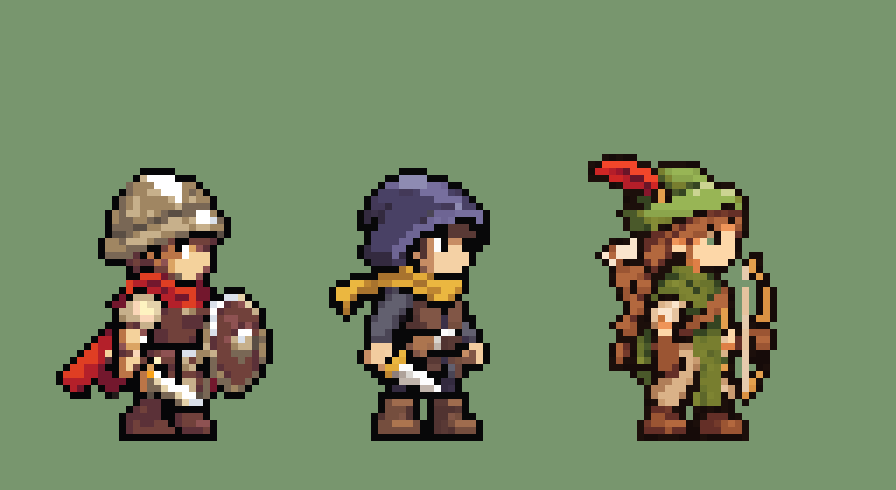
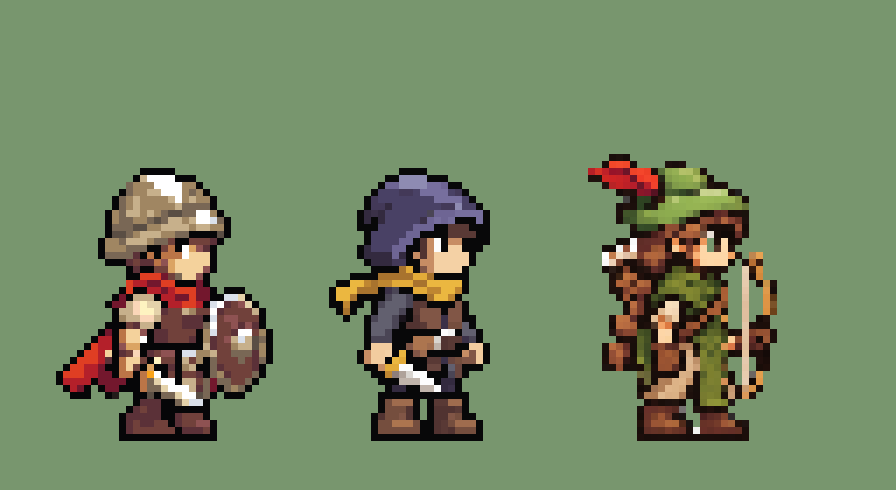
궁수 기준 그림 둘째 판(제 도트 칸대로 읽기)
Claude-Session: https://claude.ai/code/session_01WLiZx3Lii4cu91RuDKqyaT

Changed region(s): [[0.6562, 0.3061, 0.875, 0.8878]]

diff --git a/tools/saved/gpt70/pixellab72/page_archer.html b/tools/saved/gpt70/pixellab72/page_archer.html
@@ -68,10 +68,10 @@ h3 { font-size: 16px; font-weight: 600 }
     </div>
     <p class="note" id="save-hint">저장이 안 되면 그림을 길게 눌러 저장해 주세요. 둘 다 768 × 768, 흰 바탕입니다.</p>
   </section>
-  <section class="sec"><h2>픽셀랩에 넣을 궁수</h2>
[2 lines of base64/hex data omitted]
-    <p class="note">GPT 그림을 다시 찍은 것입니다(64 × 64, 투명 바탕). 몸은 전사와 같은 키이고 모자가 투구보다 두 칸쯤 높습니다. 이 크기에서는 X자 끈이 점으로만 남아서, 픽셀랩 설명 칸에 끈을 살려 달라는 글을 함께 넣습니다.</p>
+  <section class="sec"><h2>픽셀랩에 넣을 궁수 (둘째 판)</h2>
[2 lines of base64/hex data omitted]
+    <p class="note">GPT 그림의 도트 칸을 그대로 읽은 뒤 줄여서, 첫 판보다 테가 얇고 덜 뭉개집니다. 그래도 세밀한 그림을 41칸에 담은 것이라 도적만큼 깨끗하지는 않습니다.</p>
   </section>
 </main>
 <script>

diff --git a/CLAUDE.md b/CLAUDE.md
@@ -1388,3 +1388,4 @@
 - 11-24 09:03 궁수 모포: **앞은 길게(무릎까지) · 등 쪽은 짧게 · 옆이 트여 팔이 모포 옆 사이로 잘 나오게**.
 - 11-24 09:11 궁수 GPT 둘째 그림(끈 · 활시위는 고쳐짐 · 모자가 뾰족한 마법사 모자 꼴 · 깃털 흰색) → 사용자 「이거 이미지(예전 궁수)랑 전사랑 같이 먹일거니까 모자 디자인 잘 따라달라고」 → **모자 = 예전 궁수(arc_v1) 모자 그대로 + 빨간 깃털**. `pixellab72/archer_old_gpt_768.png`(예전 궁수 12배 · 흰 바탕) · `page_archer.html` → 아티팩트 「궁수 준비물」(전사 · 예전 궁수 저장 단추).
 - 11-24 09:15 궁수 GPT 셋째 그림(예전 모자 꼴 + 빨간 깃털 · 끈은 몸 앞 가장자리 · 활시위 있음) → `archer_gpt_east_src.png` → `fit_gpt.py … 41 … 12`(모자가 투구보다 두 칸 높게 · 재질 묶음 12) → `archer_gpt_east_64.png`. fit_gpt.py에 「그림 안에 갇힌 흰 바탕」 지우기(scipy 덩어리: 2,500칸 이상, 오른쪽 반은 300칸 이상)를 더함 — **도적 그림은 이 규칙 전에 만든 것이라 다시 돌리면 단검 흰 칸 몇 개가 빠진다(다시 돌리지 말 것)**. 이 크기에서 X자 끈은 점으로만 남음 → 픽셀랩 설명 칸에 끈을 살리라는 글. page_archer.html은 이번에 손으로 덧붙임(만드는 코드 없음).
+- 11-24 09:23 사용자 「화질이 구린 것처럼」 — 맞음: 「참조에서 생성」은 동쪽 기준 그림을 **그대로** 쓰고(다시 그리지 않음), 궁수 GPT 그림(51칸쯤 · 세밀)은 fit_gpt.py(재질 다수결 · 테 살리기)로 41칸에 줄이면 테가 굵어지고 뭉개진다(도적은 꼴이 단순해 괜찮았다). 둘째 판: GPT 그림을 제 도트 칸(한 칸 ≈ 14.8픽셀)대로 읽어 `archer_gpt_east_native51.png`(33 × 51) → 가까운 칸 고르기로 41칸 → `archer_gpt_east_64.png`(첫 판은 _v1). 근본 해결은 GPT가 처음부터 굵은 칸(키 40칸쯤 · 단순한 꼴)으로 그리게 하는 것.
